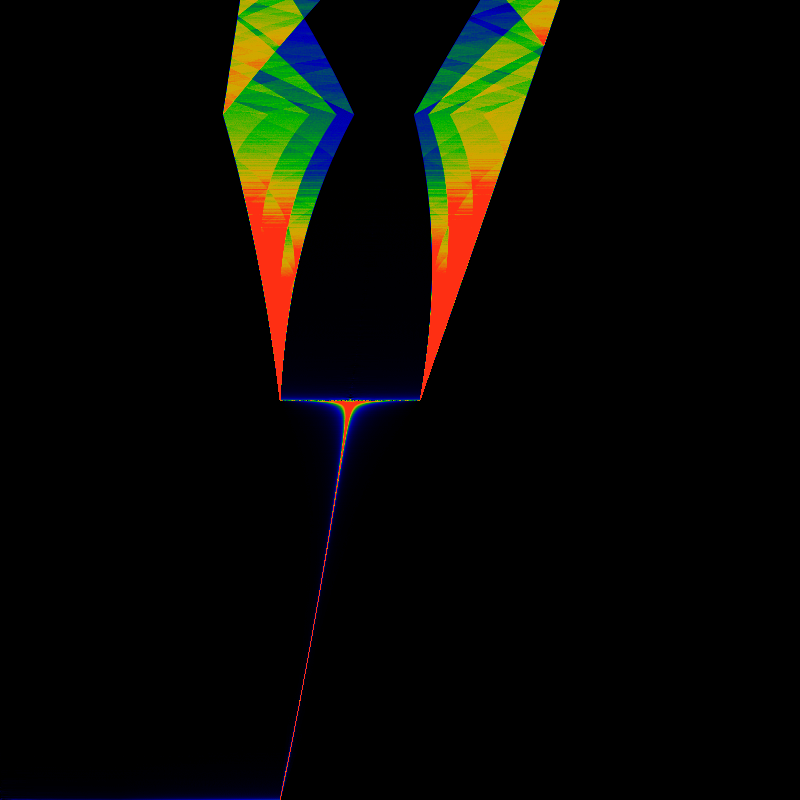
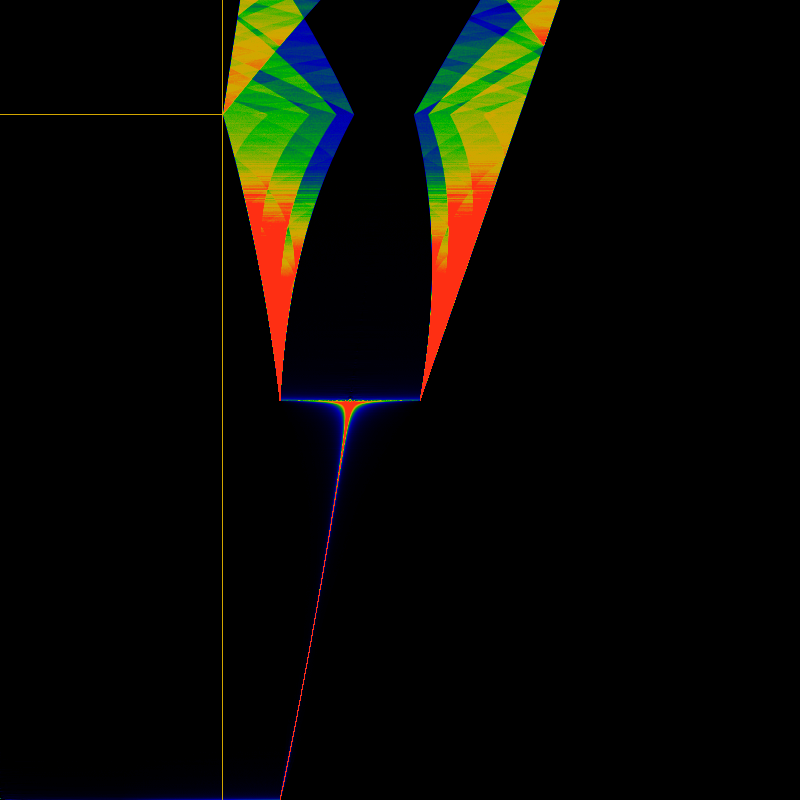
Location of the corner

diff --git a/misc/bitops/bernie.C b/misc/bitops/bernie.C
@@ -219,9 +219,9 @@ static void bifurcation_diagram (float *array,
 			// x = feig(x, K);
 			// x = nofeig(x, K);
 			// x = mangle_carry(x, K);
-			// x = island(x, K, eps);
+			x = island(x, K, eps);
 			// x = lost_island(x, K, eps);
-			x = hard_island(x, K, eps);
+			// x = hard_island(x, K, eps);
 
 			double en = array_size * (x-floor(x));
 			int n = en;
@@ -243,6 +243,36 @@ static void bifurcation_diagram (float *array,
 	double norm = wi / ((double) cnt);
 	for (int j=0; j<array_size; j++)
 		array[j] *= norm;
+
+	double beta = 2.0 * Korg;
+	double pix = 1.2 / 800;
+	int left = 4*array_size / 5;
+
+	double phi;
+#if 0
+	phi = 1.618 + eps;
+	if (fabs(beta-phi)<pix)
+		for (int j=left; j<array_size; j++) {array[j] = 1.5; }
+
+	phi = 1.4655 + eps;
+	if (fabs(beta-phi)<pix)
+		for (int j=left; j<array_size; j++) {array[j] = 1.5; }
+
+	phi = 1.3803 + eps;
+	if (fabs(beta-phi)<pix)
+		for (int j=left; j<array_size; j++) {array[j] = 1.5; }
+
+	phi = 1.3247 + eps;
+	if (fabs(beta-phi)<pix)
+		for (int j=left; j<array_size; j++) {array[j] = 1.5; }
+#endif
+
+	int cleft = 2.0 * eps * (1-0.5*eps) * 800;
+	array[cleft] = 1.5;
+
+	phi = (1 + 2.0*eps) / (1 - 2.0*eps);
+	if (fabs(beta-phi)<0.45*pix)
+		for (int j=0; j<cleft; j++) {array[j] = 1.5; }
 }
 
 DECL_MAKE_BIFUR(bifurcation_diagram)
